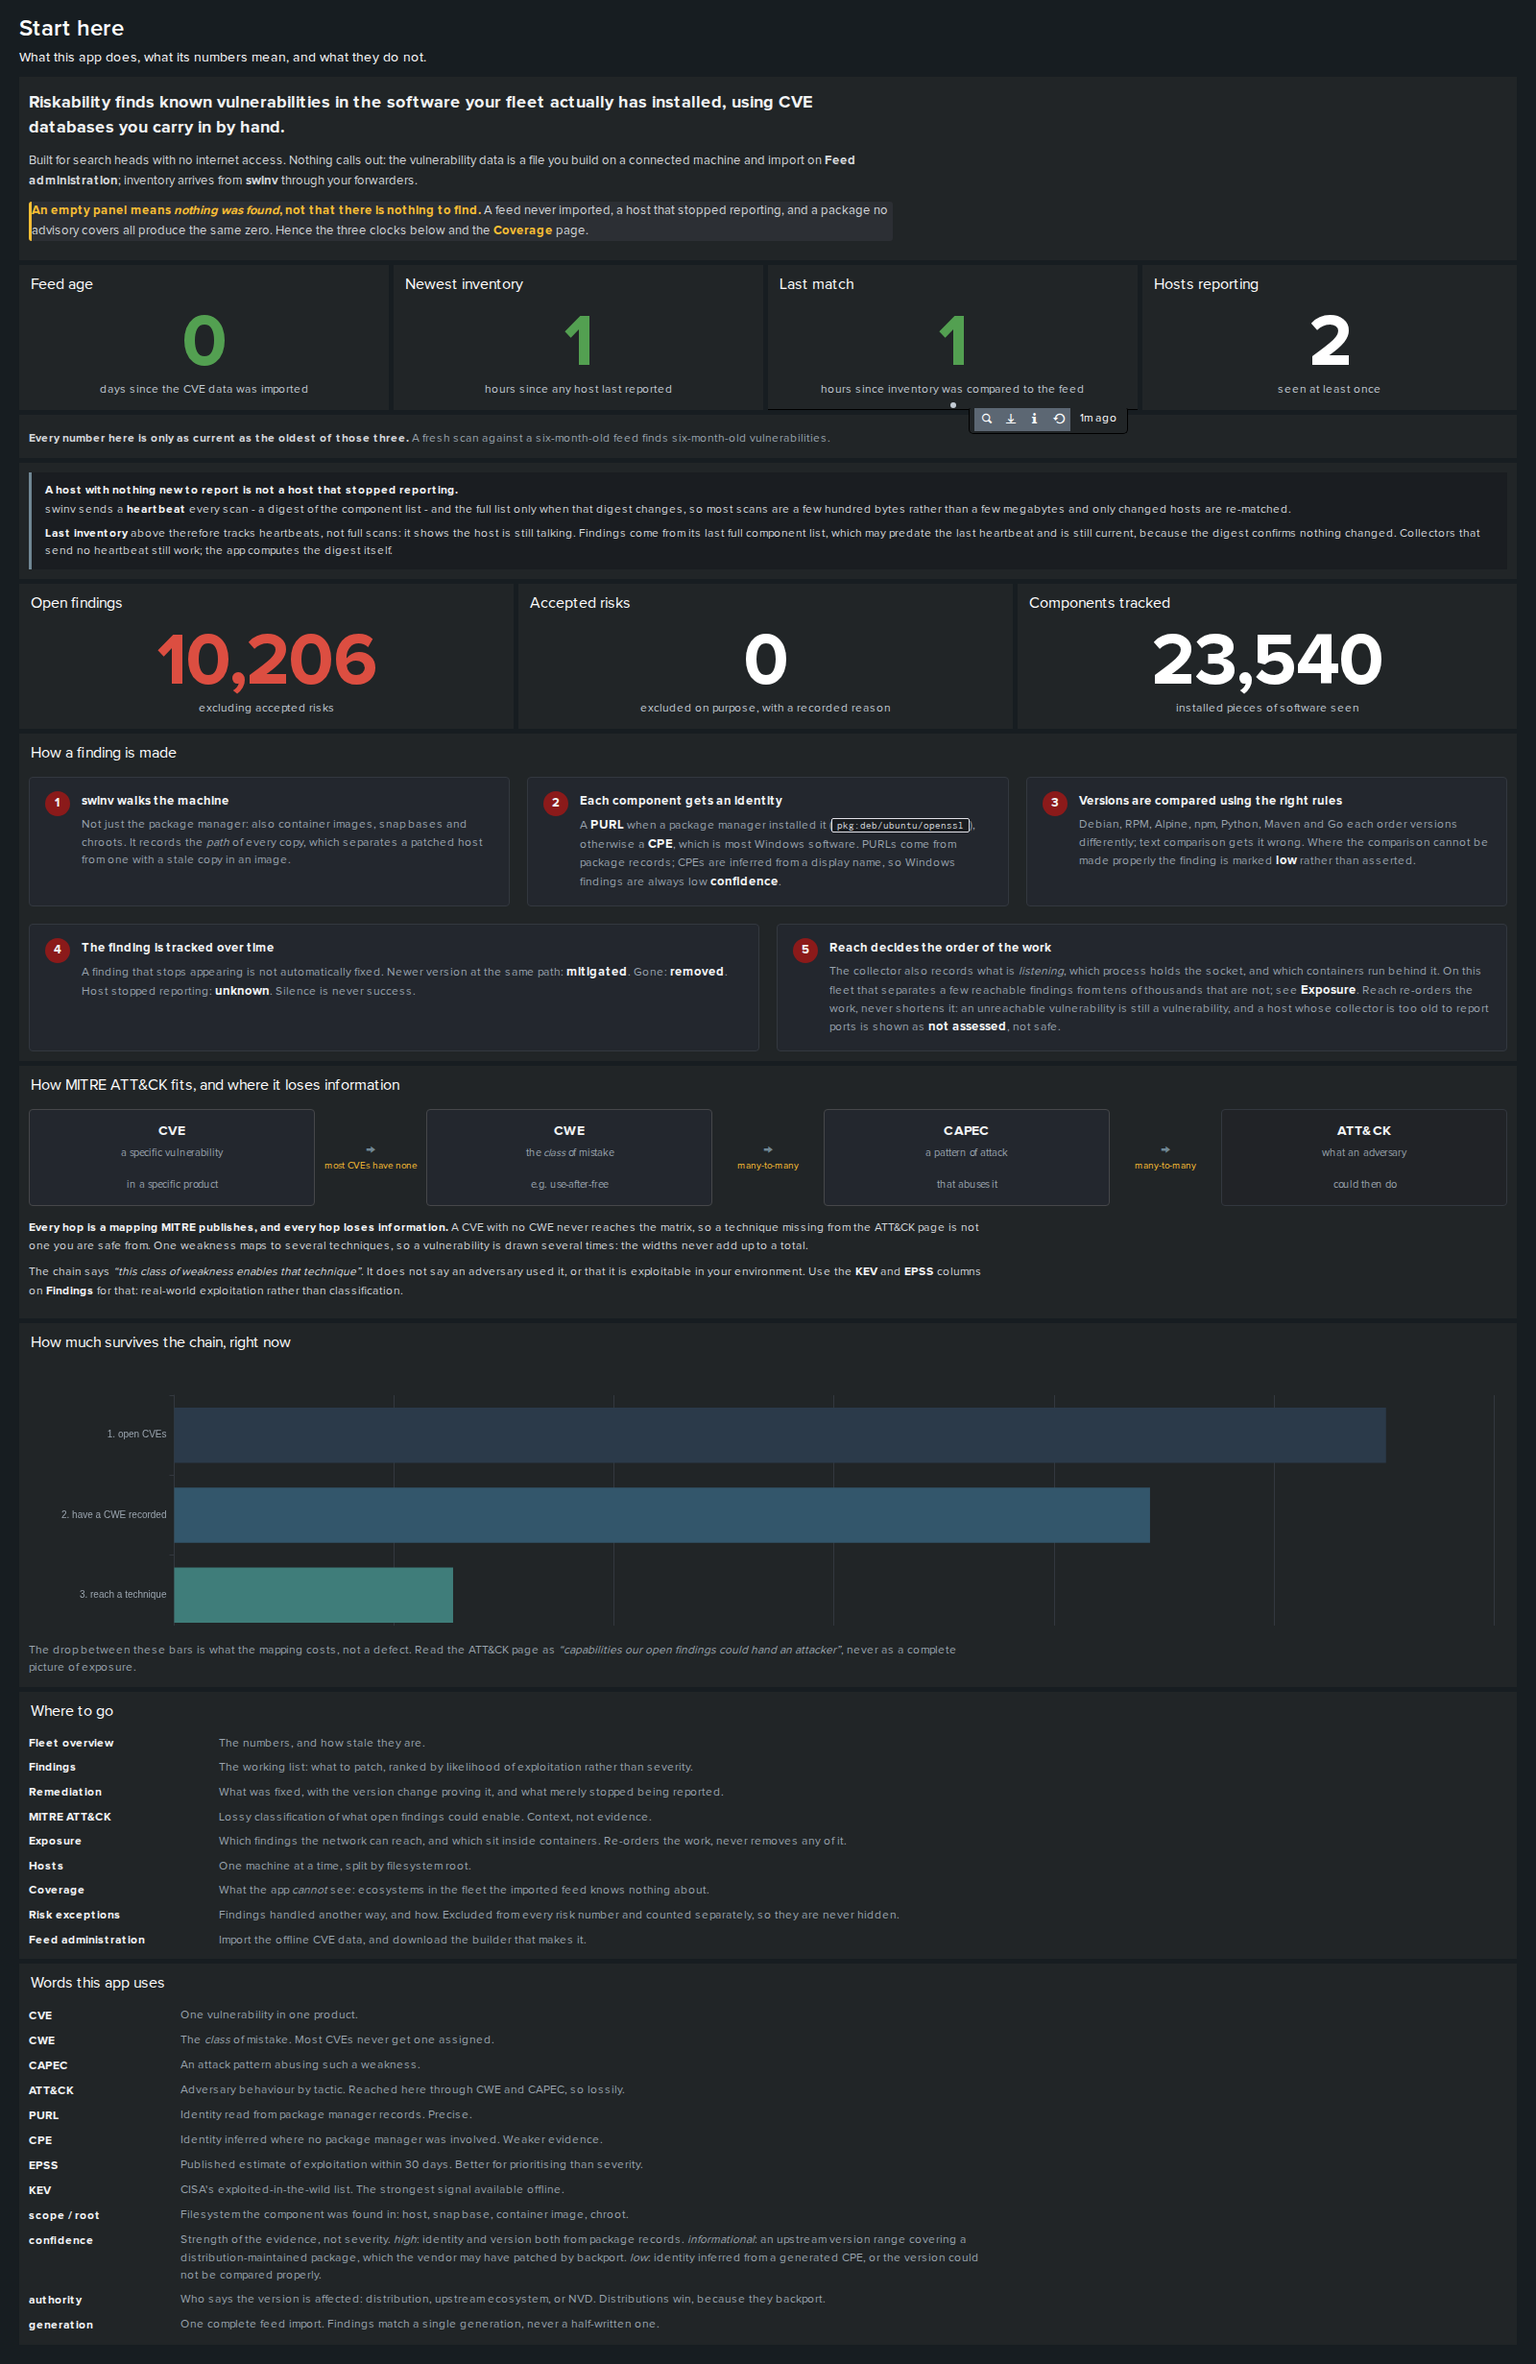
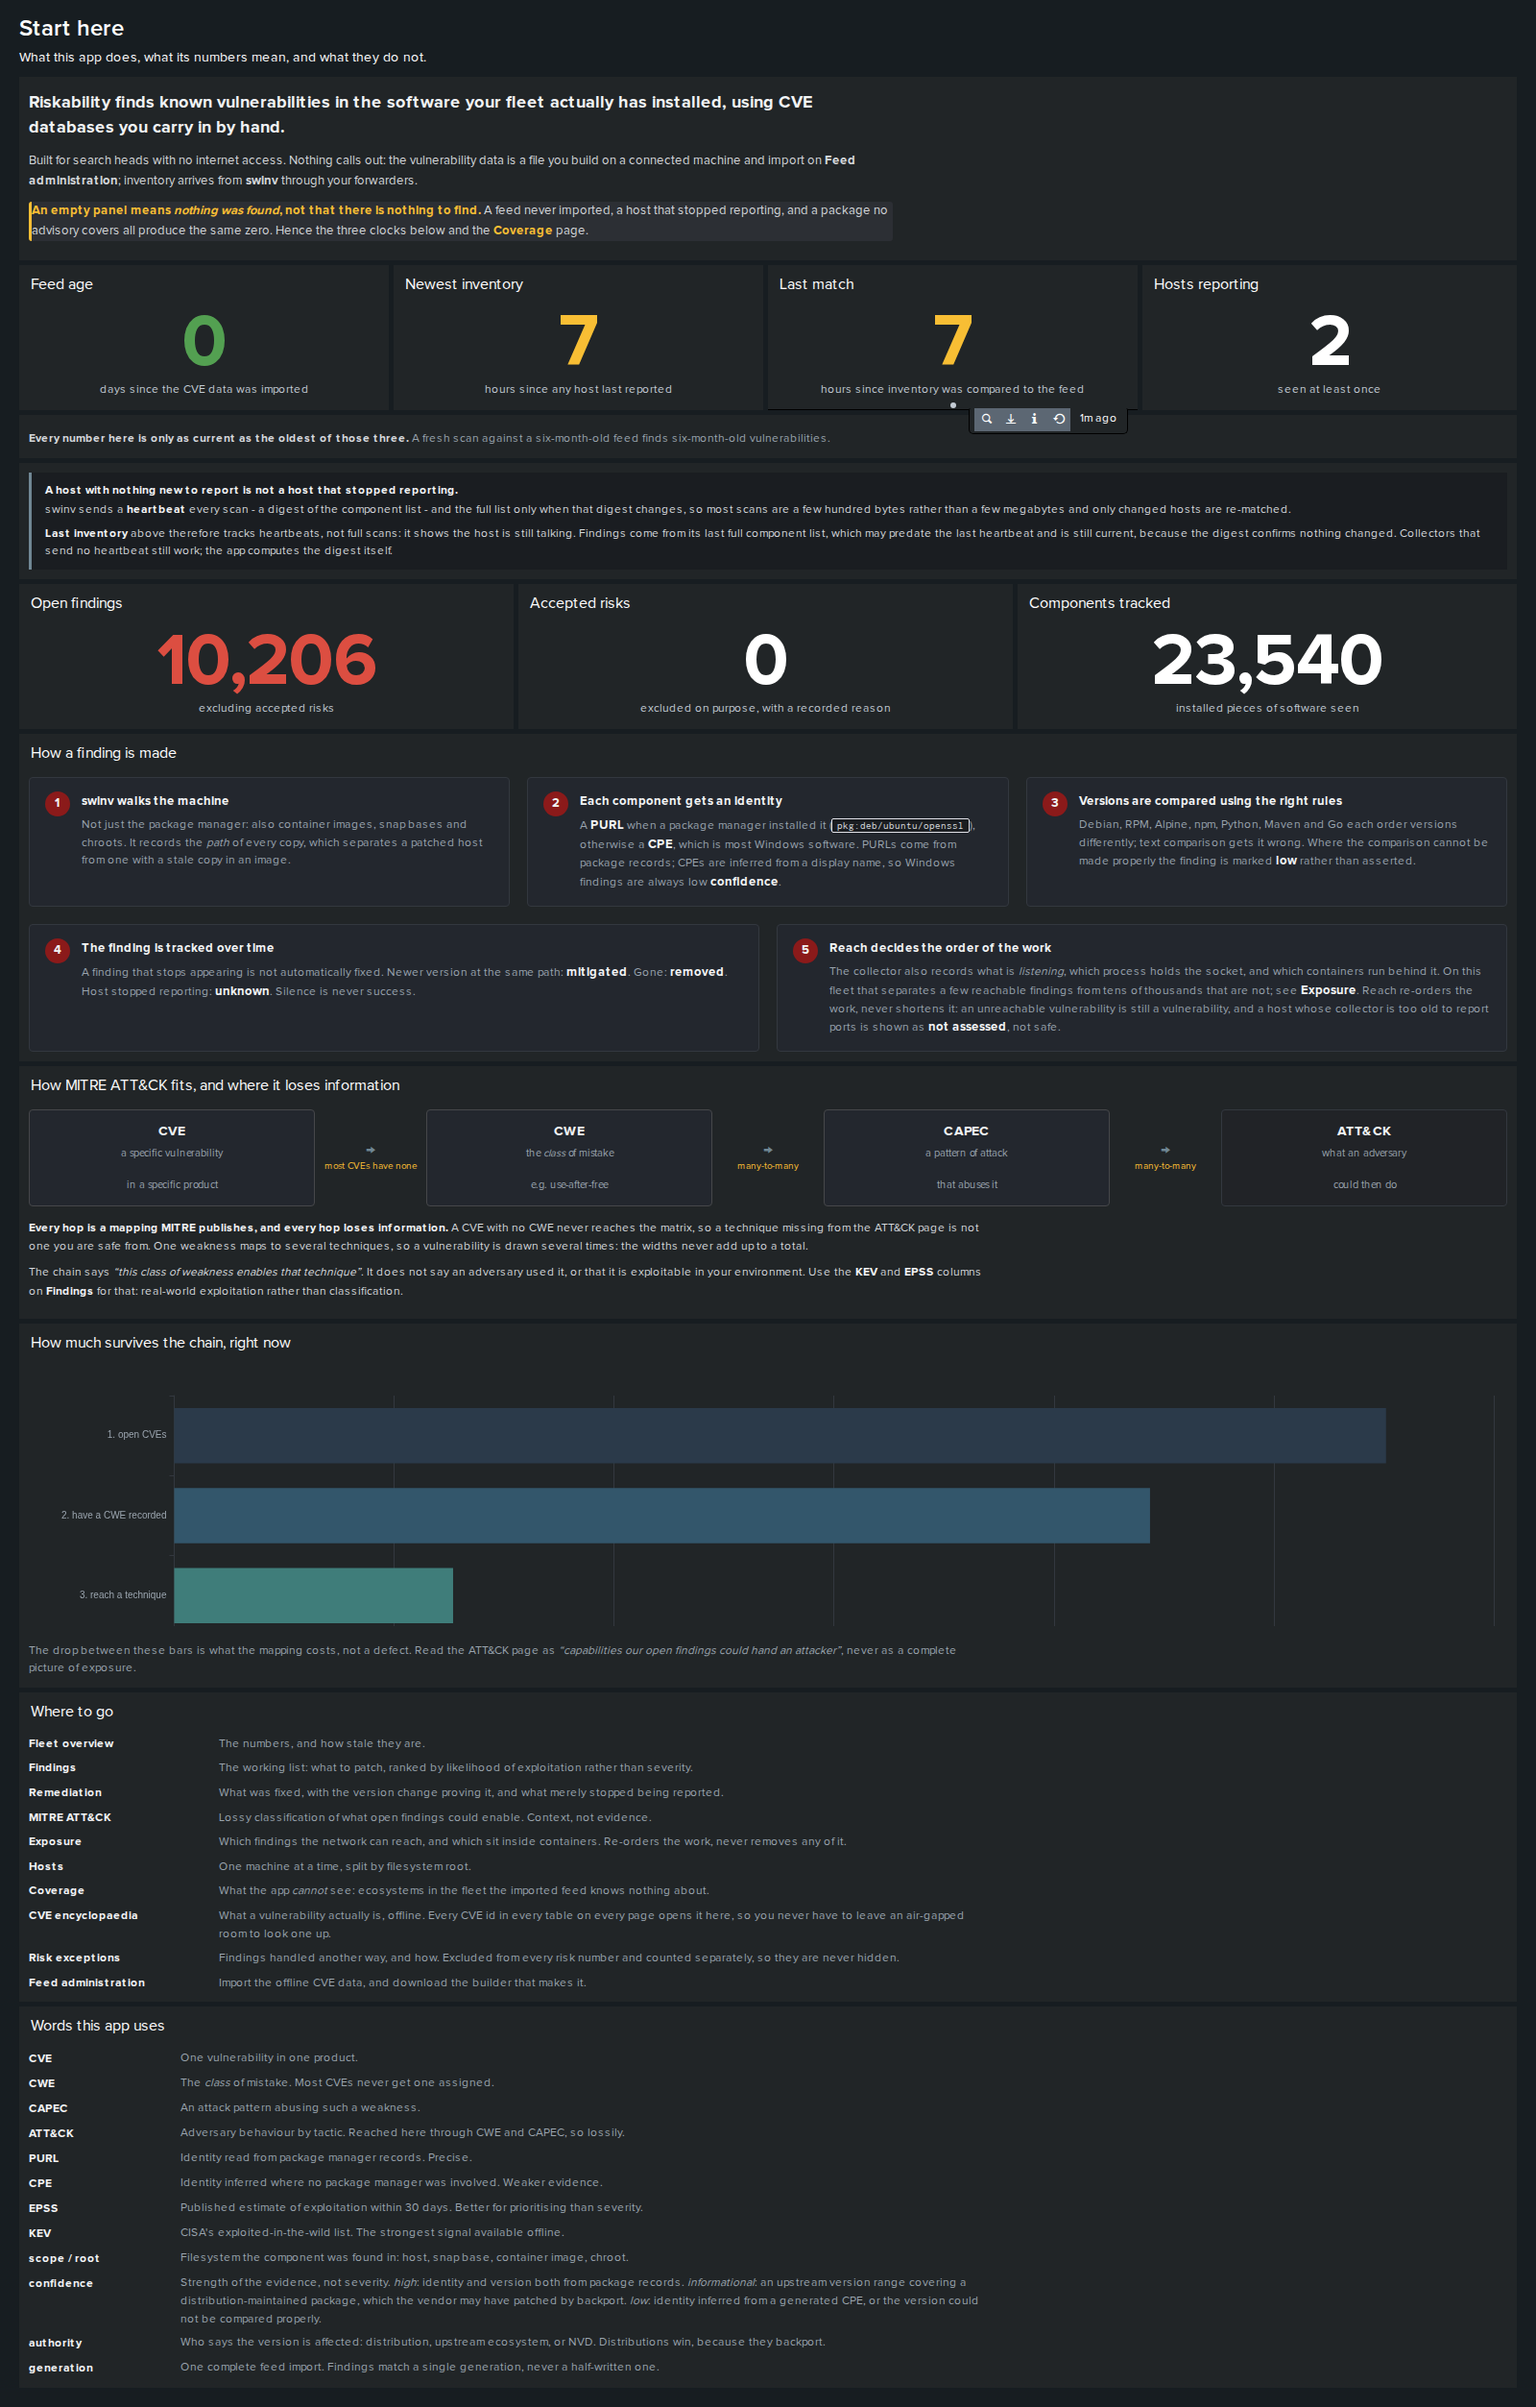
Put the encyclopaedia on the landing page, and stop the inputs sitting crooked
The landing page is the default view and the one that explains what every other
page is for, and it had never heard of the encyclopaedia. A page nothing points
at is a page nobody finds, and this one is worth finding twice over: it is also
where every CVE id in every table now leads, which the guide entry says so that
the links are discoverable rather than stumbled upon.

The two search inputs sat at different heights. Splunk stacks an input's label
above its field and does not equalise label heights across a fieldset, so
"Search a product, vendor or phrase" wrapped to two lines and pushed its own
field a line below its neighbour. Not a framework limitation to live with, just
a label too long for the column: they are now "Product or phrase" and "CVE id",
with a comment saying why they are terse so nobody helpfully lengthens them
again. What to type is explained in the panel note and the empty state, which
have room for a sentence.

Both screenshots were stale, one because the landing page changed and one
because the encyclopaedia was reordered after it was taken. Recaptured at the
same 1600px width as the rest of the gallery, and the README now describes the
page as it actually is: why the answer comes before the search box, and what
the chain graph at the foot of it shows.

Claude-Session: https://claude.ai/code/session_015h4XPQmzofVzmoNycK2dQN

diff --git a/README.md b/README.md
@@ -779,6 +779,20 @@ formatter in the table visualization rather than a per panel drilldown, so it
 works everywhere a CVE appears, shows the reader that the cell is live, and
 cannot fight the row selection that Findings needs for accepting a risk.
 
+That link is also why the page is ordered the way it is. Most arrivals already
+know their CVE and want to know what it is, so the score, the KEV status and
+the description come first, and the search box that serves the other route sits
+below them. Three independent model reviews all landed on the same complaint
+about the original order, which put an empty search table above the answer.
+
+The graph at the foot of the page is the chain from **Exposure**, reused: it
+reads ecosystem, then package, then the version that fixes it, and shows one
+vulnerability across every packaging of it. CVE-2023-4863 in libwebp fans out
+across eight ecosystems there, which is the clearest illustration in the app of
+why a single CVE can need a dozen separate upgrades. It is the feed's published
+fix versions and knows nothing about which of them you run; the fleet table
+above it is the panel that does.
+
 Screenshots below are from a two-host test fleet - one Linux, one Windows - built
 from nothing by `tools/build_demo_instance.sh`, with a feed carrying 793,058
 advisories. The numbers in them are the ones this README quotes.
